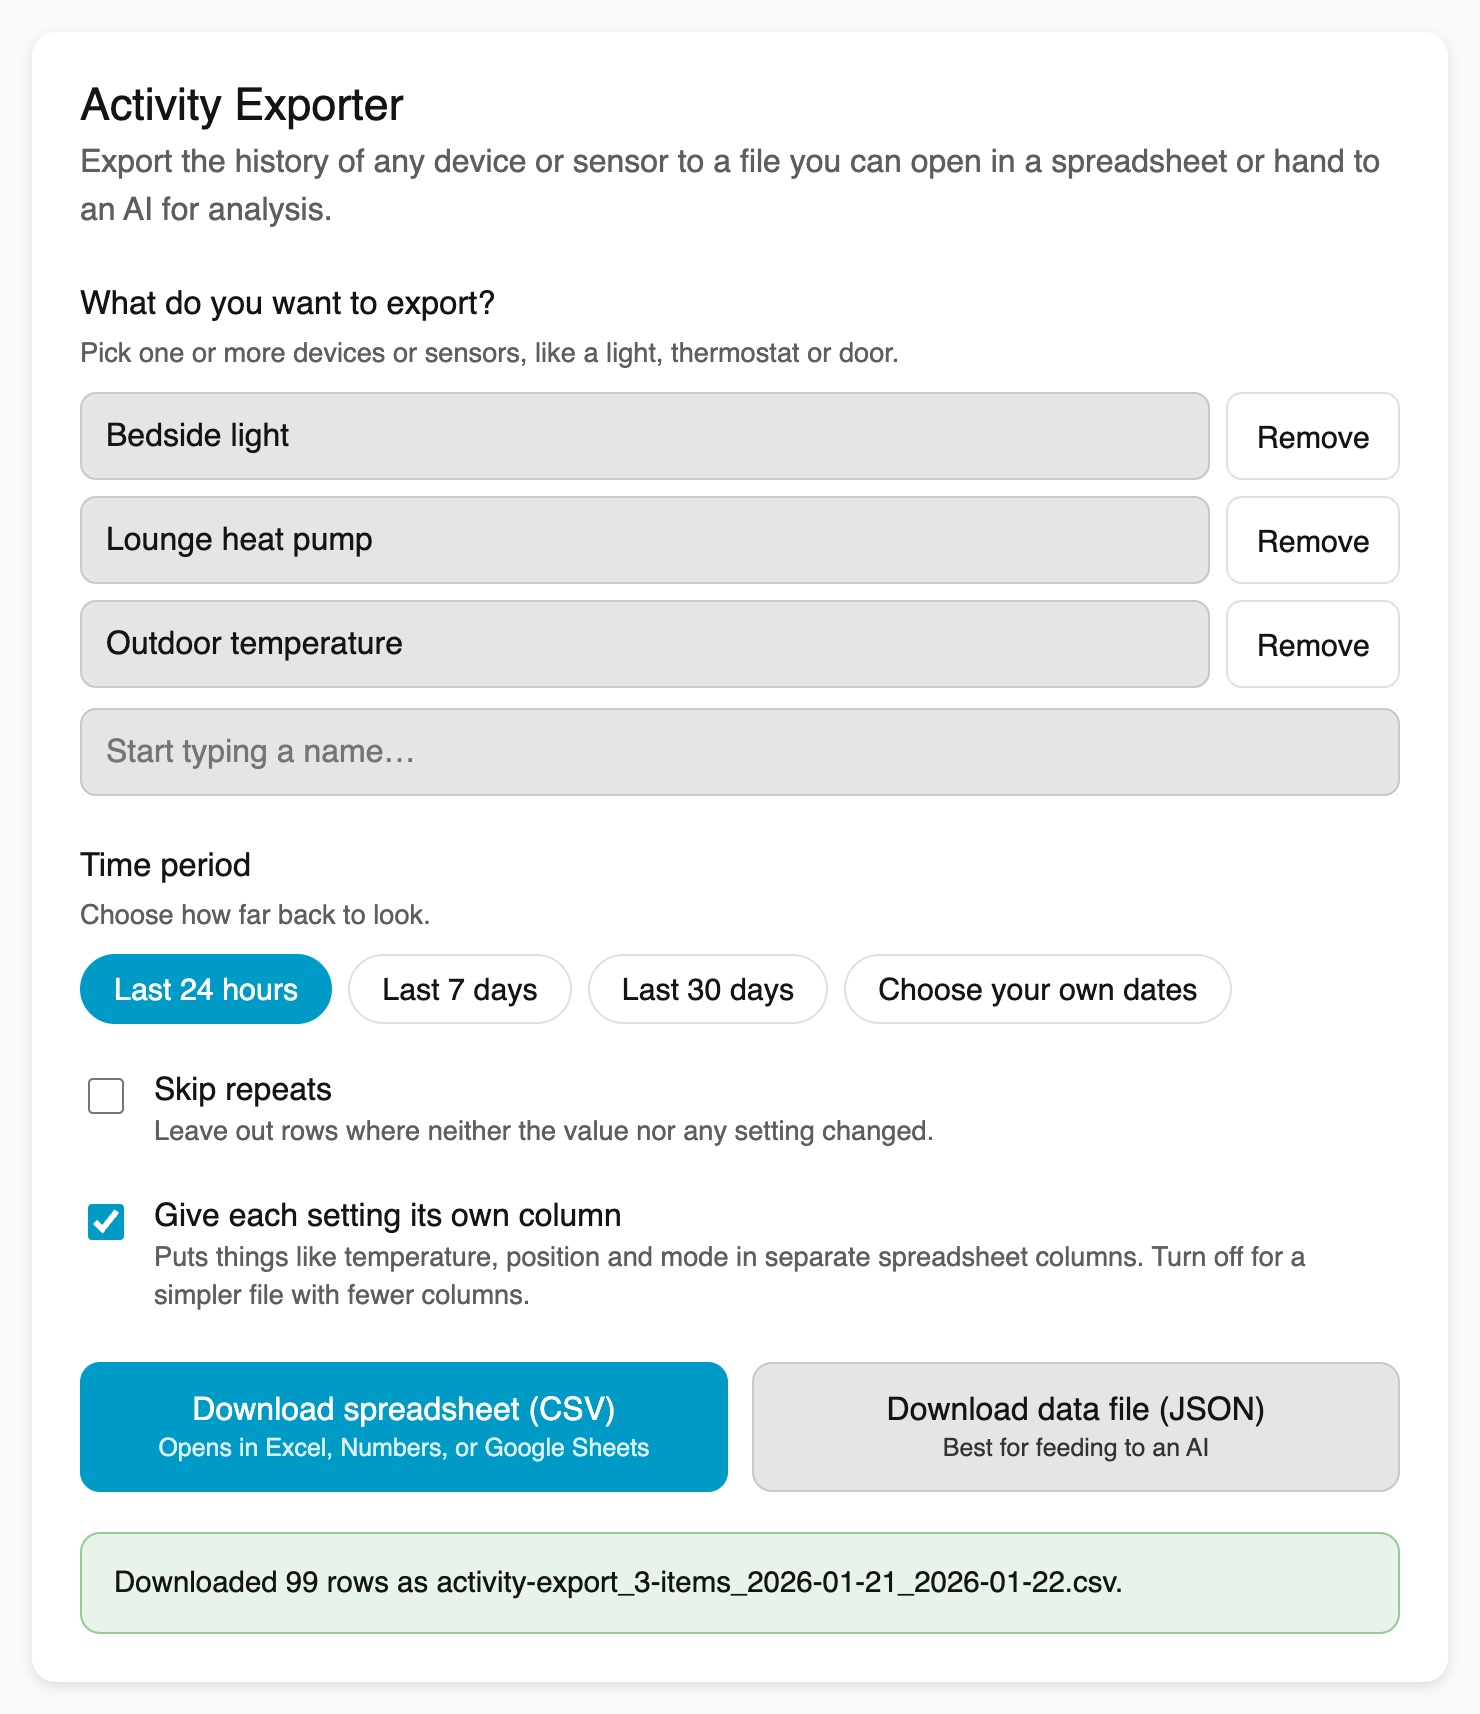
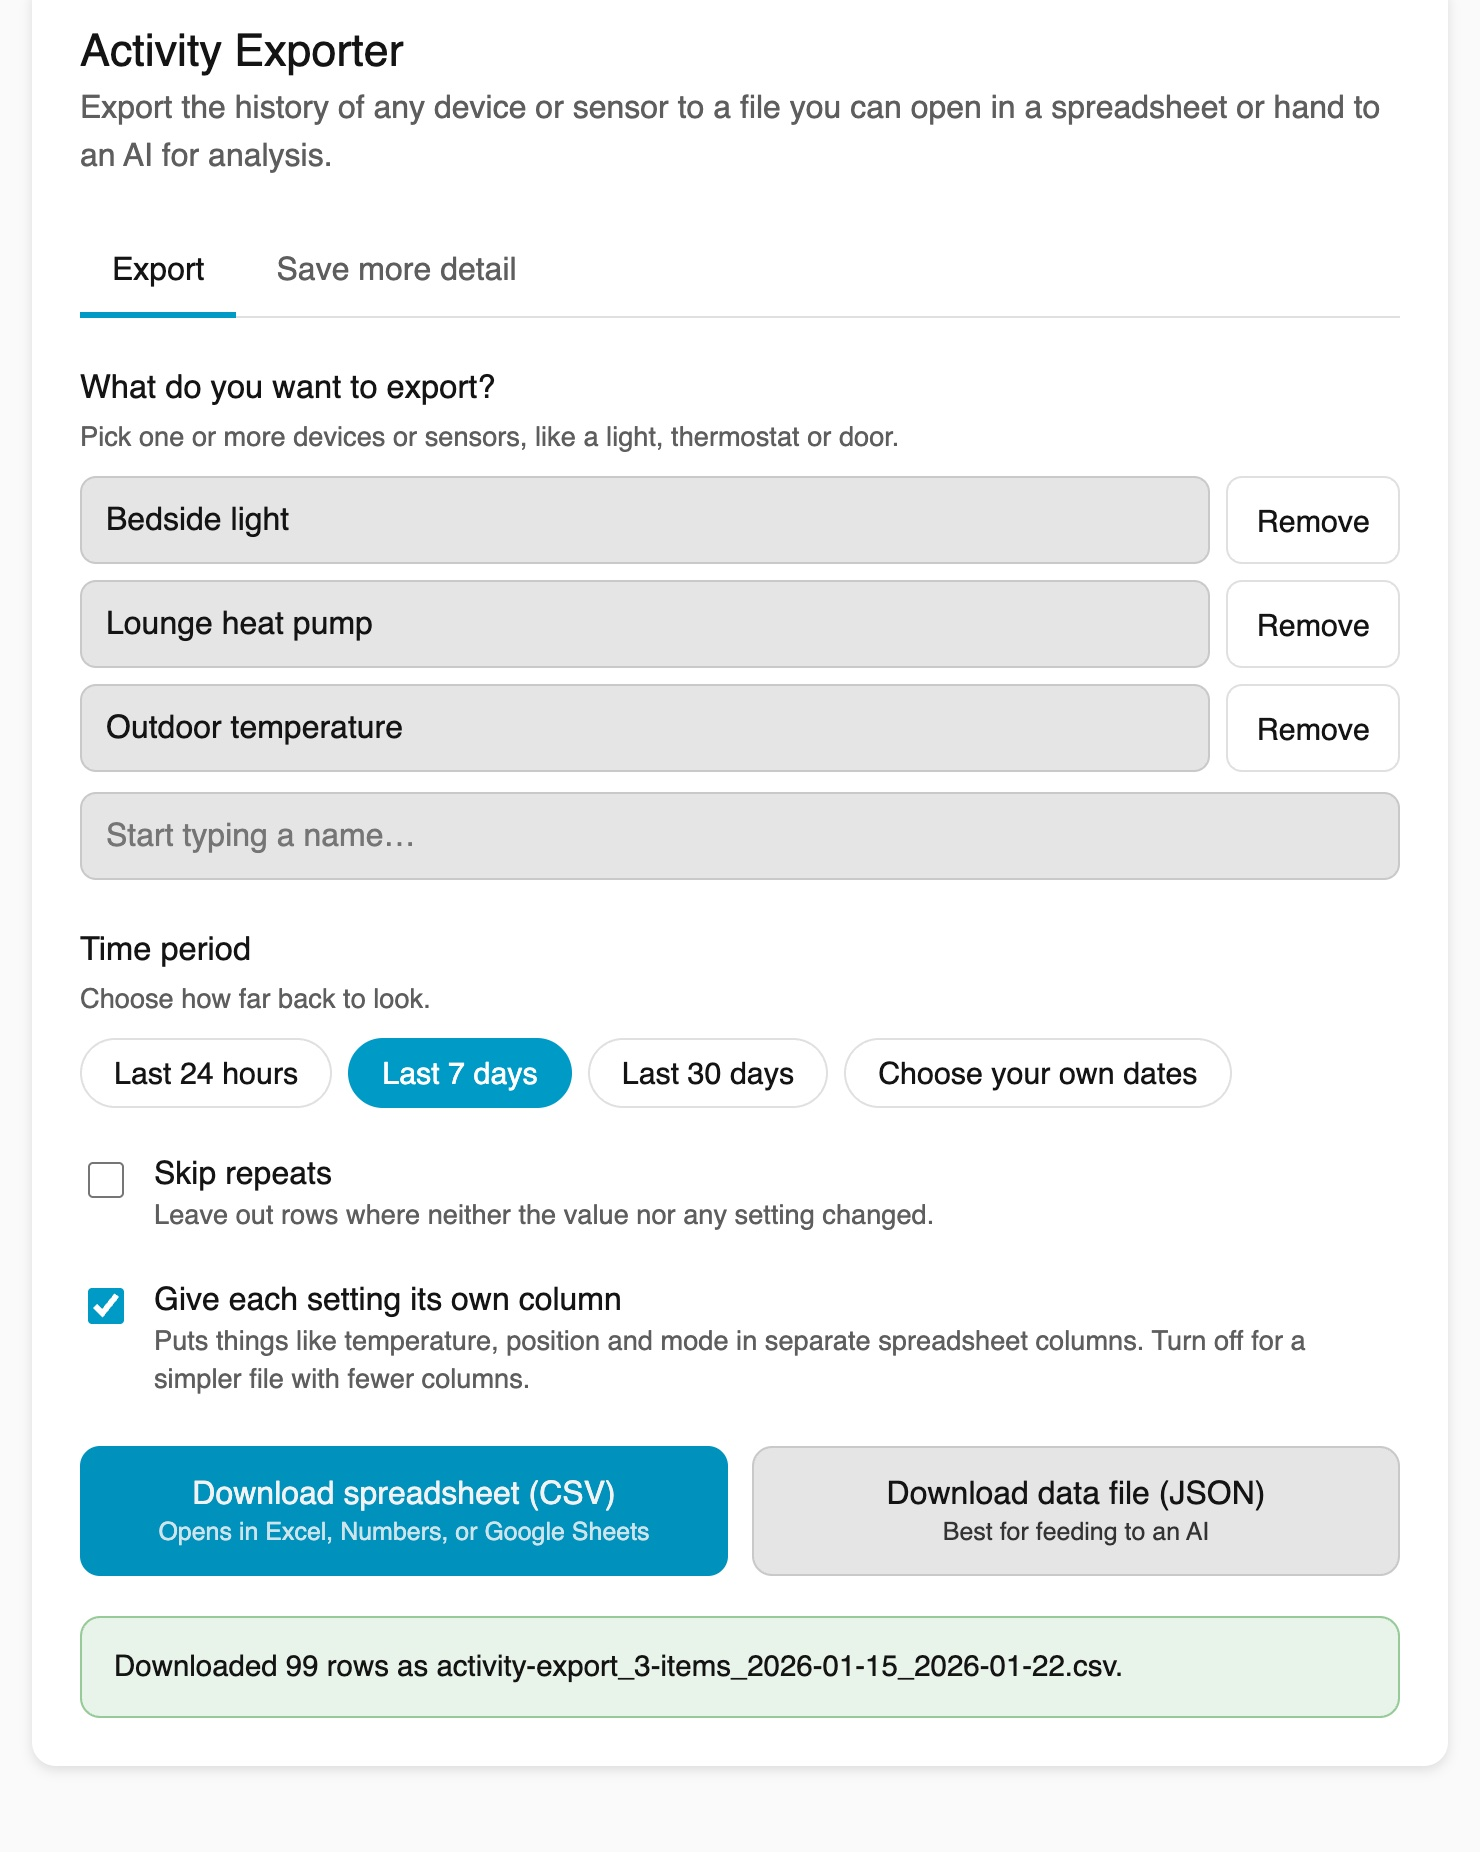
docs: retake the panel screenshot and show the Save more detail tab
The README screenshot now shows the Export and Save more detail tabs, and a
second screenshot shows choosing which of a light's details to keep. The
panel harness answers the three detail commands and signs in as an admin
by default, with admin=0 and saved=1 flags, so the new tab can be checked
in a browser.

diff --git a/tests/frontend/harness/index.html b/tests/frontend/harness/index.html
@@ -108,6 +108,16 @@
     { when: sunriseStart, state: "on", entity_id: "light.bedroom_kitty_bedside_light", context_event_type: "script_started", context_domain: "script", context_name: "Weekend sunrise", context_message: "started", context_entity_id: "script.weekend_sunrise" },
   ];
 
+  const unrecorded = {
+    "light.bedroom_kitty_bedside_light": ["brightness", "color_mode", "hs_color"],
+    "light.hall": ["brightness", "color_mode"],
+    "climate.lounge": ["hvac_modes", "min_temp", "max_temp"],
+  };
+  const denied = new Set(["friendly_name", "supported_features", "unit_of_measurement", "device_class", "state_class", "icon", "entity_picture", "access_token"]);
+  const tracked = params.get("saved") === "1" ? { "light.hall": ["brightness"] } : {};
+  /** Name the hidden sensor that keeps a device's chosen details. */
+  function mirrorId(source) { return `sensor.activity_exporter_${source.replace(".", "_")}`; }
+
   window.__calls = [];
   window.__fail = params.get("fail");
   window.__delay = Number(params.get("delay")) || 0;
@@ -118,7 +128,8 @@
   const hass = {
     states,
     config: { time_zone: "Pacific/Auckland" },
-    /** Answer a mocked history or logbook request for the requested window. */
+    user: { is_admin: params.get("admin") !== "0" },
+    /** Answer a mocked history, logbook or kept-detail request. */
     async callWS(msg) {
       window.__calls.push(msg);
       const start = Date.parse(msg.start_time) / 1000;
@@ -132,6 +143,23 @@
           if (rows.length) result[id] = rows;
         }
         return result;
+      }
+      if (msg.type === "ha_activity_exporter/detail/list") {
+        return Object.entries(tracked).map(([id, attributes]) => ({ source_entity_id: id, mirror_entity_id: mirrorId(id), attributes: [...attributes], dropped: [] }));
+      }
+      if (msg.type === "ha_activity_exporter/detail/describe") {
+        const state = states[msg.entity_id];
+        if (!state) throw new Error("Unknown entity");
+        const keep = unrecorded[msg.entity_id] || [];
+        const details = Object.keys(state.attributes).filter((n) => !denied.has(n))
+          .map((name) => ({ name, unrecorded: keep.includes(name), volatile: false }))
+          .sort((a, b) => (b.unrecorded - a.unrecorded) || a.name.localeCompare(b.name));
+        return { entity_id: msg.entity_id, name: state.attributes.friendly_name || msg.entity_id, details };
+      }
+      if (msg.type === "ha_activity_exporter/detail/save") {
+        if (msg.attributes.length) tracked[msg.entity_id] = [...msg.attributes];
+        else delete tracked[msg.entity_id];
+        return null;
       }
       if (msg.type === "logbook/get_events") {
         return logbook.filter((e) => msg.entity_ids.includes(e.entity_id) && e.when >= start && e.when < end);

diff --git a/tests/frontend/harness/README.md b/tests/frontend/harness/README.md
@@ -25,6 +25,8 @@ Open `http://127.0.0.1:8765/tests/frontend/harness/index.html`. The built-in ser
 | `now=<epoch ms>` | Freezes `Date.now()` so the fixture data, the time range and the file names repeat exactly between loads. |
 | `many=<n>` | Adds `n` extra sensors (`sensor.extra_01` and up), for the 20 device limit. |
 | `rows=<n>` | Rows each extra sensor has in the last day (default 50), for a busy export. |
+| `admin=0` | Signs in as a non-admin, so the "Save more detail" tab is hidden. |
+| `saved=1` | Starts with the hall light's brightness already being saved. Saves made on the page are kept until reload. |
 
 ## What it records
 

diff --git a/README.md b/README.md
@@ -297,6 +297,8 @@ The **Save more detail** tab fixes that, with no configuration files:
 3. Tick the details to keep. The ones Home Assistant doesn't normally save are ticked for you.
 4. Click **Save**.
 
+![The Save more detail tab, choosing which of a light's details to keep](docs/images/save-more-detail.jpg)
+
 From then on the details are saved, and your exports of that device include them automatically, on the device's own rows. Use **Change** to alter what is kept, or **Stop saving** to stop.
 
 Good to know:
